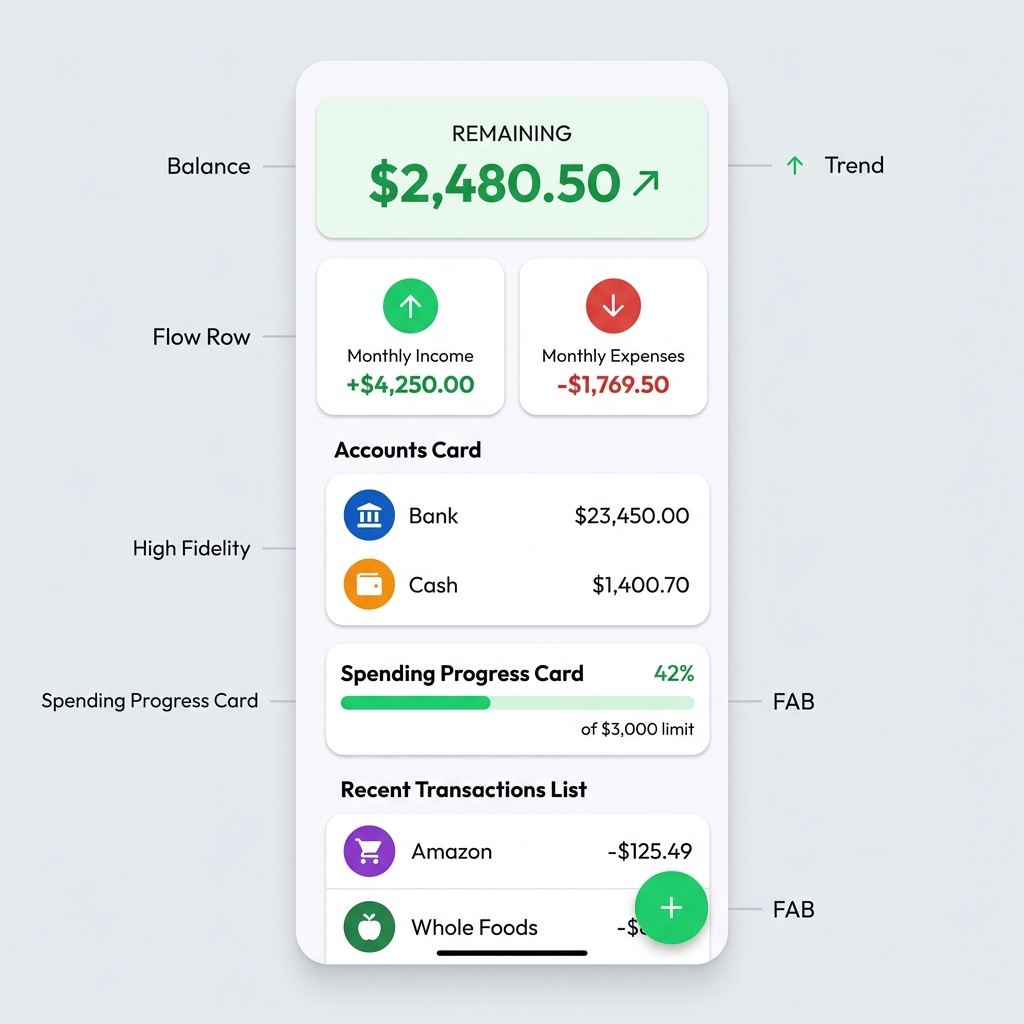
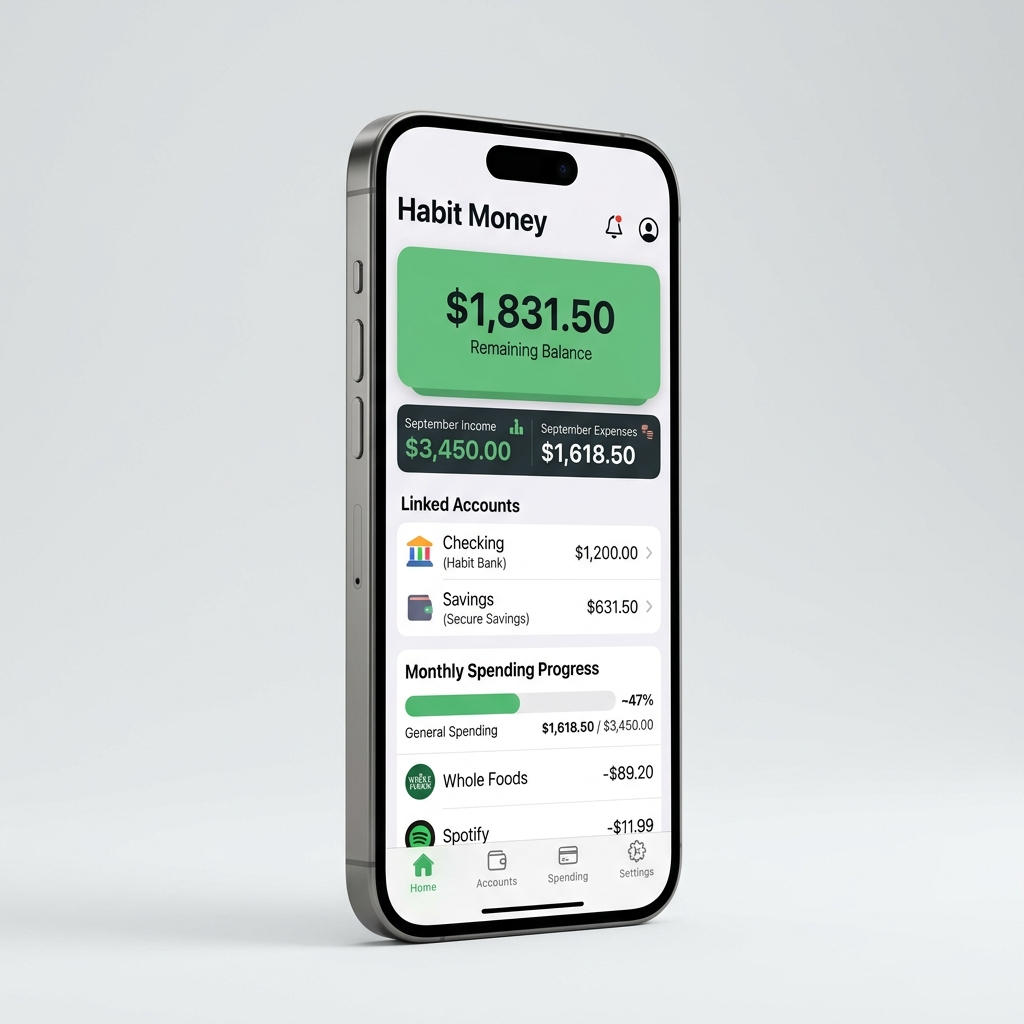
chore: update pages

diff --git a/docs/index.html b/docs/index.html
@@ -99,14 +99,14 @@
 
       .btn-nav:hover {
         transform: translateY(-2px);
-        box-shadow: 0 10px 20px rgba(0, 92, 238, 0.2);
-        background: #004dc7;
+        box-shadow: 0 10px 20px rgba(34, 197, 94, 0.2);
+        background: #16a34a;
       }
 
       /* Hero Section */
       .hero {
         padding: 200px 8% 120px;
-        background: radial-gradient(circle at top right, #f0f7ff, #ffffff);
+        background: radial-gradient(circle at top right, var(--light), #ffffff);
         min-height: 95vh;
         display: flex;
         align-items: center;
@@ -160,12 +160,13 @@
       .btn-primary {
         background: var(--primary);
         color: white;
-        box-shadow: 0 15px 35px rgba(0, 92, 238, 0.25);
+        box-shadow: 0 15px 35px rgba(34, 197, 94, 0.25);
       }
 
       .btn-primary:hover {
         transform: translateY(-4px);
-        box-shadow: 0 20px 40px rgba(0, 92, 238, 0.35);
+        box-shadow: 0 20px 40px rgba(34, 197, 94, 0.35);
+        background: #16a34a;
       }
 
       .hero-image {
@@ -338,7 +339,7 @@
         display: inline-flex;
         align-items: center;
         gap: 10px;
-        background: #f0f7ff;
+        background: var(--light);
         color: var(--primary);
         padding: 10px 24px;
         border-radius: 50px;
@@ -350,7 +351,7 @@
       /* Footer */
       footer {
         padding: 140px 8% 60px;
-        background: #f8faff;
+        background: #f5fdf7;
         margin-top: 140px;
       }
 
@@ -494,7 +495,13 @@
         <a href="#features">Features</a>
         <a href="#insights">Insights</a>
         <a href="privacy.html">Privacy</a>
-        <a href="terms.html" class="btn-nav">Settings & Help</a>
+        <a href="terms.html">Terms</a>
+        <a
+          href="https://github.com/nmenag/fin-habit"
+          target="_blank"
+          class="btn-nav"
+          >GitHub</a
+        >
       </div>
     </nav>
 
@@ -522,7 +529,27 @@
           phone.
         </p>
         <div class="cta-group">
-          <a href="#" class="btn btn-primary"> Open Dashboard </a>
+          <a
+            href="https://github.com/nmenag/fin-habit"
+            target="_blank"
+            class="btn btn-primary"
+          >
+            <svg
+              width="24"
+              height="24"
+              viewBox="0 0 24 24"
+              fill="none"
+              stroke="currentColor"
+              stroke-width="2.5"
+              stroke-linecap="round"
+              stroke-linejoin="round"
+            >
+              <path
+                d="M9 19c-5 1.5-5-2.5-7-3m14 6v-3.87a3.37 3.37 0 0 0-.94-2.61c3.14-.35 6.44-1.54 6.44-7A5.44 5.44 0 0 0 20 4.77 5.07 5.07 0 0 0 19.91 1S18.73.65 16 2.48a13.38 13.38 0 0 0-7 0C6.27.65 5.09 1 5.09 1A5.07 5.07 0 0 0 5 4.77a5.44 5.44 0 0 0-1.5 3.78c0 5.42 3.3 6.61 6.44 7A3.37 3.37 0 0 0 9 18.13V22"
+              />
+            </svg>
+            View on GitHub
+          </a>
         </div>
       </div>
       <div class="hero-image">
@@ -637,7 +664,7 @@
           <ul>
             <li><a href="#features">Features</a></li>
             <li><a href="#insights">Insights</a></li>
-            <li><a href="#">Transactions</a></li>
+            <li><a href="#">Home</a></li>
           </ul>
         </div>
         <div class="footer-links">
@@ -650,8 +677,12 @@
         <div class="footer-links">
           <h4>Support</h4>
           <ul>
-            <li><a href="#">Settings & Help</a></li>
-            <li><a href="#">GitHub Repo</a></li>
+            <li>
+              <a href="https://github.com/nmenag/fin-habit" target="_blank"
+                >GitHub Repo</a
+              >
+            </li>
+            <li><a href="mailto:[email redacted]">Contact Support</a></li>
           </ul>
         </div>
       </div>